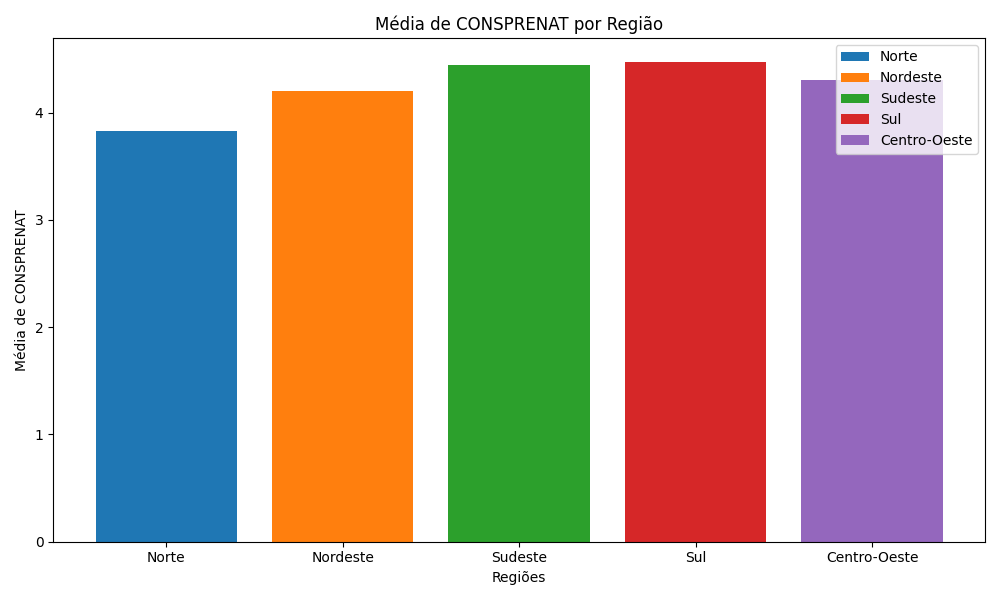
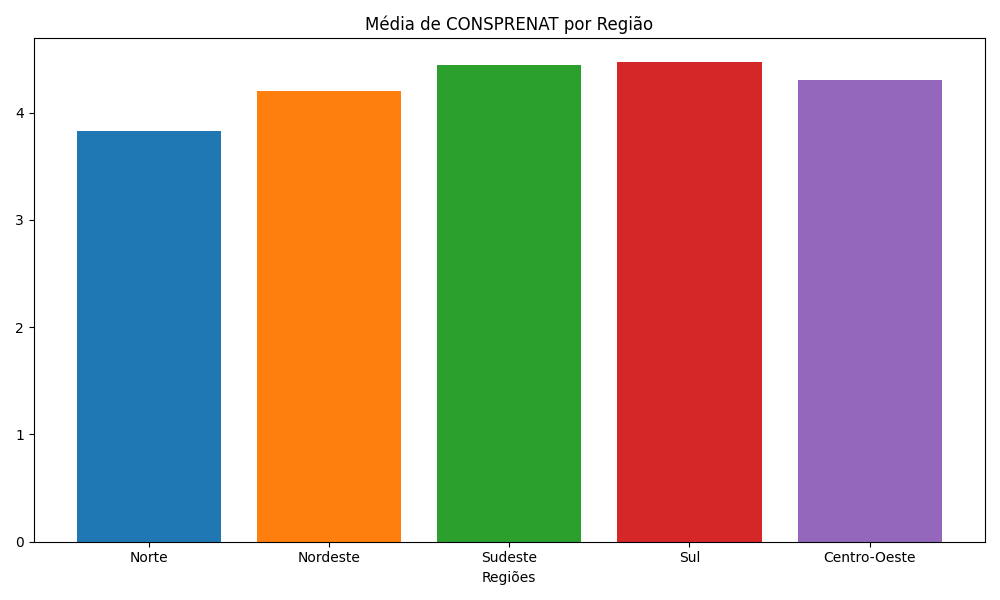
Adicione alterações nas imagens

diff --git a/analysis-saulo/generate_images.py b/analysis-saulo/generate_images.py
@@ -22,11 +22,11 @@ region_data = analysis.separate_by_location(df, region_mapping)
 
 # Imagem 1: Gráfico de Barras para Regiões (CONSPRENAT)
 output_path_consprenat = 'data_analise/images/bar_plot_region.png'
-generate_bar(region_data, column_name1, "Regiões", "Média de CONSPRENAT", "Média de CONSPRENAT por Região", output_path_consprenat)
+generate_bar(region_data, column_name1, "Regiões", f"Média de {column_name2} por Região", output_path_consprenat)
 
 # Imagem 2: Boxplot para Regiões (CONSPRENAT)
 output_path_kotelchuck = 'data_analise/images/boxplot_region.png'
-generate_boxplot(region_data, column_name1, "Regiões", "CONSPRENAT", "Distribuição de CONSPRENAT por Região", output_path_kotelchuck)
+generate_boxplot(region_data, column_name1, "Regiões", f"Distribuição de {column_name2} por Região", output_path_kotelchuck)
 
 # Teste 3: Mapa de calor cpara estados (KOTELCHUCK)
 output_path_heatmap = 'data_analise/images/heatmap.png'
